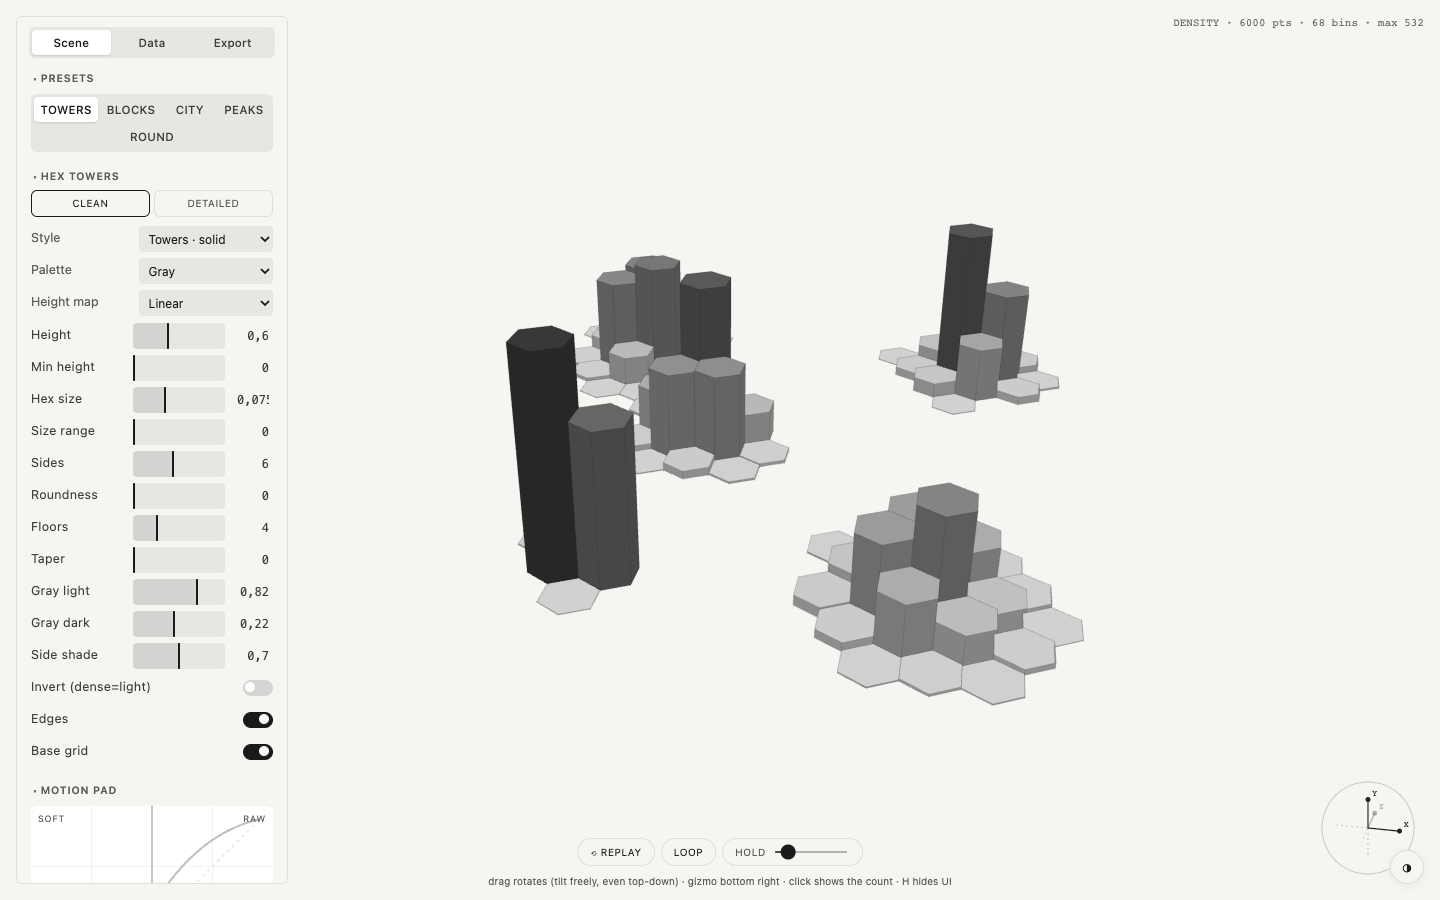
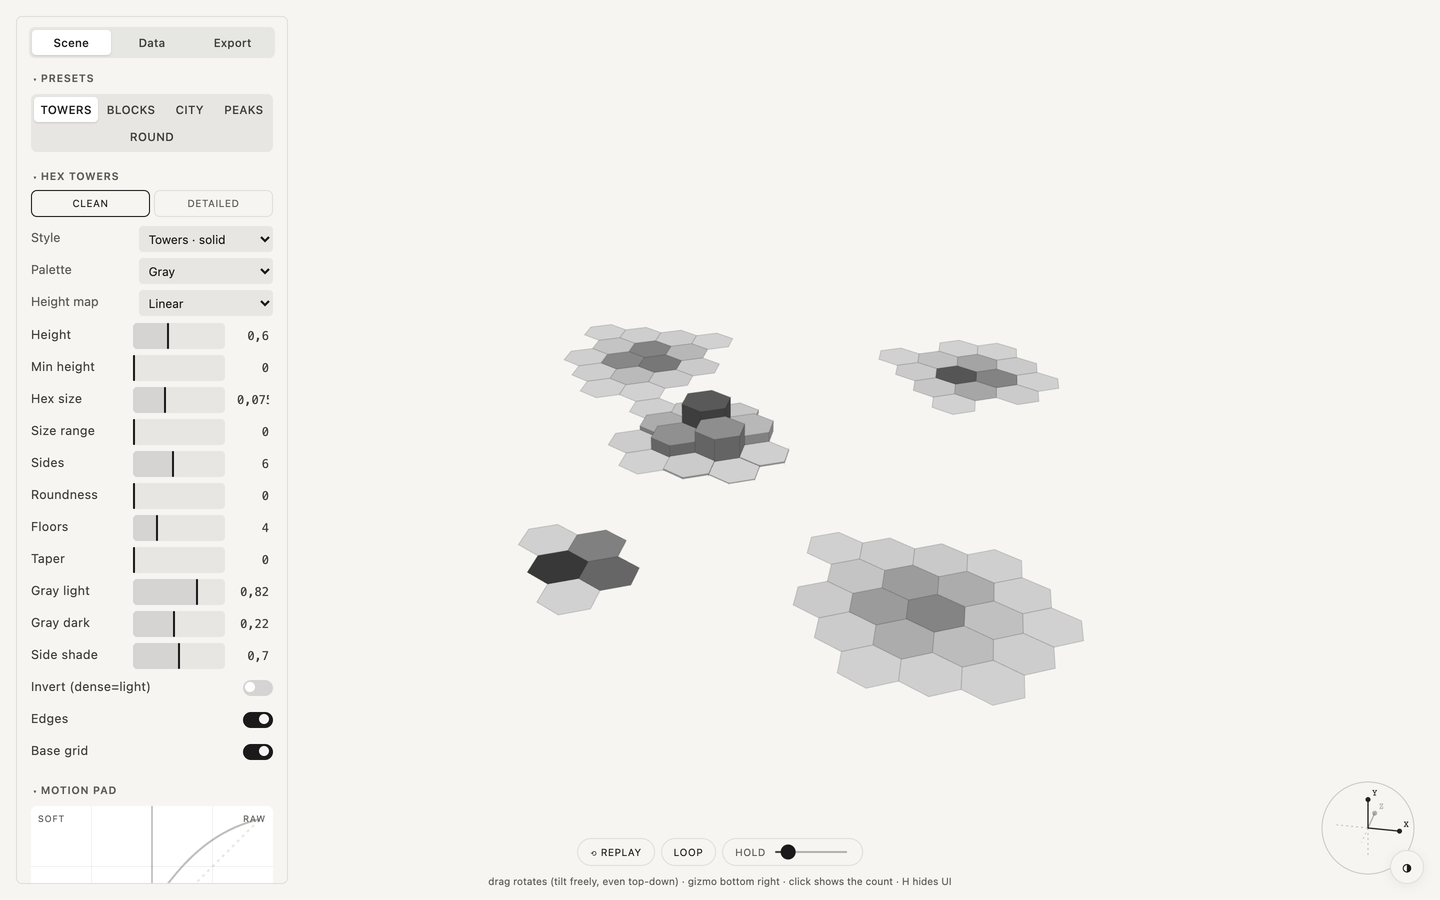
Cover, preview and search-friendly description

diff --git a/index.html b/index.html
@@ -54,7 +54,7 @@
   #hint{position:fixed;bottom:12px;left:50%;transform:translateX(-50%);color:var(--muted);font-size:10px;z-index:5;pointer-events:none}
   body.noui #panel,body.noui #hint,body.noui #mtrans{display:none}
 </style>
[2 lines of base64/hex data omitted]
 <style>
 :root{--h-bg:#f6f5f2;--h-card:#ecebe6;--h-field:#ffffff;--h-ink:#1a1a1a;--h-ink2:#3d3c39;--h-ink3:#5c5b57;--h-fill:rgba(26,26,26,.07);--h-fill-hover:rgba(26,26,26,.10);--h-fill-strong:rgba(26,26,26,.15);--h-fill-active:rgba(26,26,26,.24);--h-hair:rgba(26,26,26,.10);--h-line:rgba(26,26,26,.14);--h-seg-on:#ffffff;--h-track-s:.02em;--h-ring:oklch(.49 .08 182);--h-sans:-apple-system,BlinkMacSystemFont,"SF Pro Text","SF Pro Display","Inter","Segoe UI",Roboto,Helvetica,Arial,sans-serif;--h-mono:ui-monospace,"SF Mono",SFMono-Regular,Menlo,Consolas,monospace;--h-display:"Inter Tight",-apple-system,BlinkMacSystemFont,"SF Pro Display",system-ui,sans-serif;
   --paper:var(--h-bg);--ink:var(--h-ink);--muted:var(--h-ink3);--line:var(--h-hair);--accent:var(--h-ink);--panel:var(--h-bg)}

diff --git a/README.md b/README.md
@@ -19,6 +19,11 @@
 
 Thousands of points, counted into hexagons and raised as towers. Tilt it all the way down and it reads like a city of your data.
 
+## Use it for
+
+- density of thousands of points in one view
+- a data "city" for a report cover
+
 ## What it does
 
 - **Shapes:** solid towers, stacked floors or cones
@@ -39,26 +44,26 @@ Take it if you want it.
 
 ## More tools
 
+- [GONE](https://github.com/robvagin/gone-player) · a macOS player for the thirty minutes before a DJ set
+- [PSP Engine](https://github.com/robvagin/shar-psp-engine) · a native engine that runs a PS2 game on the PSP. Not an emulator
 - [Particle Dance](https://github.com/robvagin/particle-dance) · particles that dance along patterns and 3D forms
+- [XYZ Cube](https://github.com/robvagin/xyz-cube) · your data as points in a 3D cube on axes you name
+- [Pack Label](https://github.com/robvagin/pack-label) · coffee bag labels, checked and ready for print
+- [Image Shuffler](https://github.com/robvagin/image-shuffler) · your screenshots flying in 3D, recorded as a video
+- [Sunburst](https://github.com/robvagin/sunburst) · a hierarchy as a 3D sunburst chart with height
+- [Halftone Cloud](https://github.com/robvagin/halftone-cloud) · images rebuilt as a halftone of flying shapes
+- [Motion Primer](https://github.com/robvagin/motion-primer) · bodies that swarm, orbit, fall and gather into a word
 - [Murmur](https://github.com/robvagin/murmur-vj) · a VJ visualizer: circles, triangles and squares that move to your music
+- [Particles 3D](https://github.com/robvagin/particles-3d) · a WebGL2 cloud of up to 300,000 particles
+- [Thinking Sphere](https://github.com/robvagin/thinking-sphere) · a glass sphere with soft shapes drifting inside
+- [Line Engine](https://github.com/robvagin/line-engine) · engraved line patterns in motion: Lissajous, rosettes, waves
 - [Orbital](https://github.com/robvagin/orbital) · data as orbits, axes or a bending mesh
 - [Metaballs](https://github.com/robvagin/metaballs) · soft masses that merge, split and leave holes
-- [Halftone Cloud](https://github.com/robvagin/halftone-cloud) · images rebuilt as a halftone of flying shapes
 - [Logomachine](https://github.com/robvagin/logomachine) · seeded generative marks: one seed, one pattern, always
-- [Motion Primer](https://github.com/robvagin/motion-primer) · bodies with behaviors: swarm, pack, magnet, orbit, fall, scatter
-- [Particles 3D](https://github.com/robvagin/particles-3d) · a WebGL2 cloud of up to 300,000 particles
-- [Orb Atom](https://github.com/robvagin/orb-atom) · glass orbs that think: lenses with soft bodies drifting inside
 - [Ellipse Sphere](https://github.com/robvagin/ellipse-sphere) · a sphere built from stacked discs that fan open and assemble
-- [Thinking Sphere](https://github.com/robvagin/thinking-sphere) · a glass sphere with soft shapes drifting inside
-- [SphereGen](https://github.com/robvagin/spheregen) · a glass sphere that bends whatever is behind it: generative scenes, photos, video
-- [Line Engine](https://github.com/robvagin/line-engine) · engraved line patterns: superformulas, rosettes, waves and Lissajous, in motion
-- [XYZ Cube](https://github.com/robvagin/xyz-cube) · your data as points in a 3D cube on axes you name
 - [Chart 3D](https://github.com/robvagin/chart-3d) · pie, bars, polar and area charts in 3D, with an entrance
-- [Sunburst](https://github.com/robvagin/sunburst) · a hierarchy as a 3D sunburst with height
 - [Voronoi](https://github.com/robvagin/voronoi) · points that share space as cells, inside any shape
-- [Image Shuffler](https://github.com/robvagin/image-shuffler) · your screens flying in 3D, ready to record as a video
 - [Motion Pad](https://github.com/robvagin/motion-pad) · one pad for the character of motion
-- [Pack Label](https://github.com/robvagin/pack-label) · one label per coffee lot, checked and ready for print
 
 ## License
 
